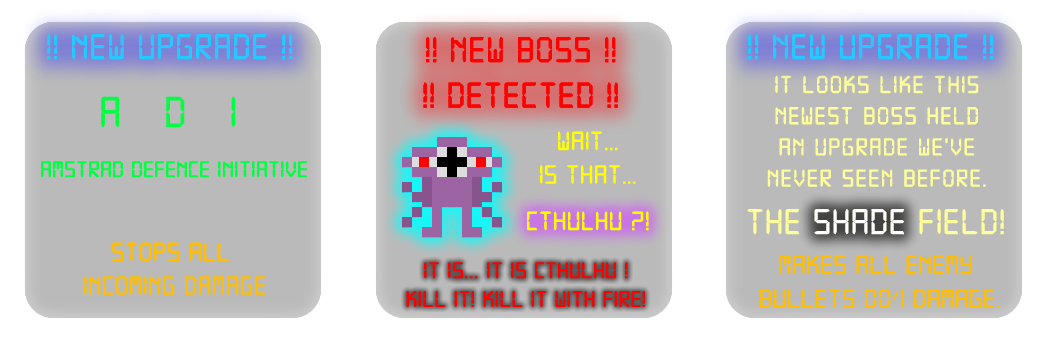
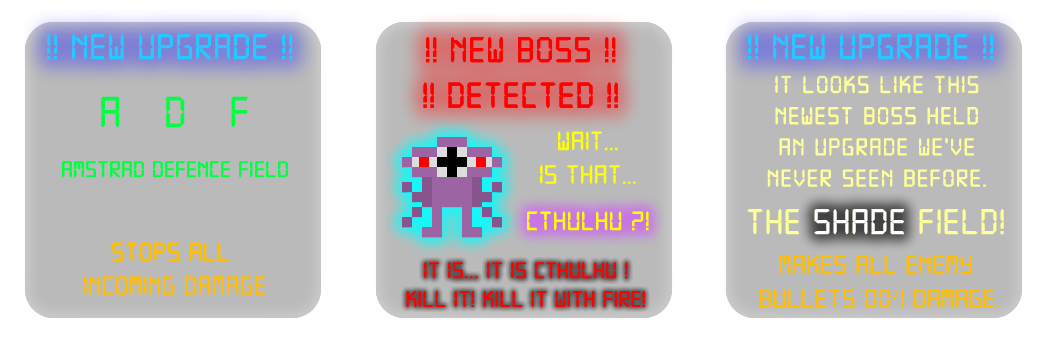
Highlighted Upgrade/Baddy

Changed region(s): [[0.0305, 0.4571, 0.3048, 0.5143], [0.2133, 0.3143, 0.2438, 0.3429], [0.2133, 0.2571, 0.2438, 0.2857]]

diff --git a/js/_vars.js b/js/_vars.js
@@ -189,6 +189,7 @@ var vars = {
         bossLimit: 1,
         bossNext: -1,
         bulletDamage: 1,
+        cthulhuSpotted: false,
         deadSinceLastPowerup: 0,
 
         bossPaths: [], // these are built at run time. All boss paths are set, unlike standard enemy attack paths which start at the enemy xy
@@ -415,11 +416,11 @@ var vars = {
 
         },
 
-        bulletPhysicsObject: function(_xy, _bullet=0, _scale=0.4, _strength=1, _speed=500, _cam2Ignore=true, _xSpeed=0) {
+        bulletPhysicsObject: function(_xy, _bullet=0, _scale=0.4, _strength=1, _speed=500, _cam2Ignore=true, _xSpeed=0, _boss=false) {
             if (_scale===0.4 && vars.game.scale!==0.4) { _scale = vars.game.scale; }
             let theBullet = scene.physics.add.sprite(_xy[0], _xy[1], 'bulletPrimaryEnemy', _bullet).setScale(_scale);
             theBullet.setName('bullet_' + generateRandomID());
-            theBullet.setData('hp', _strength);
+            theBullet.setData({ hp: _strength, boss: _boss });
             scene.sound.play('enemyShoot');
             enemyBullets.add(theBullet);
             if (_cam2Ignore===true) {
@@ -599,6 +600,26 @@ var vars = {
             })
             vars.cameras.ignore(cam2, enemies);
             vars.levels.wavePopupVisible=false;
+        },
+
+        unpauseAfterHighlight: function() {
+            // enable physics
+            scene.physics.resume();
+            // enable tweens
+            allTweens = scene.tweens.getAllTweens();
+            allTweens.forEach( (c)=> {
+                c.timeScale=1;
+            })
+            if (scene.tweens._pending.length>0) { // check for pending tweens (tweens created in the same frame as the paused setting set to true)
+                scene.tweens._pending.forEach( (c)=> {
+                    c.resume();
+                })
+            }
+            // enable game vars
+            let gV = vars.game;
+            gV.paused=false;
+            gV.pausedReason = '';
+            gV.awaitingInput=false;
         }
     },
 
@@ -672,6 +693,7 @@ var vars = {
         },
 
         shieldChange: function(_upgrade=false) {
+            console.log('%c - Check for shield change', vars.console.callTo);
             let pV = vars.player;
             let sV = pV.ship;
             let bW = sV.bodyWidths;
@@ -890,13 +912,17 @@ var vars = {
                     let upG = scene.physics.add.sprite(x,y,'upgradesS').setScale(0.4).anims.play('amstradField');
                     upG.setData('upgrade', 'fx_ADI');
                     shipPowerUpGroup.add(upG);
-                        if (ssV.ADI.seenBefore===false) {
-                            ssV.ADI.seenBefore = true;
-                            // highlight the bonus
-                            vars.UI.highlightObject(upG);
-                            debugger;
-                        }
+                    let paused = false;
+                    console.log('ADDING TWEEN');
+                    if (ssV.ADI.seenBefore===false) {
+                        ssV.ADI.seenBefore = true;
+                        paused = true;
+                        // highlight the bonus
+                        vars.UI.highlightEnabled = true;
+                        vars.UI.highlightObject(upG,0);
+                    }
                     scene.tweens.add({
+                        paused: paused,
                         targets: upG,
                         y: 1000,
                         duration: 2000,
@@ -939,7 +965,7 @@ var vars = {
                         ssV.SHADE.seenBefore = true;
                         paused=true;
                         // highlight the bonus
-                        vars.UI.highlightObject(upG);
+                        vars.UI.highlightObject(upG,2);
                     }
                     scene.tweens.add({
                         paused: paused,
@@ -1067,26 +1093,52 @@ var vars = {
     },
 
     UI: {
-        highlightObject: function(_upgrade) {
-            let w = _upgrade.width;
-            let h = _upgrade.height;
-            let x = _upgrade.x;
-            let y = _upgrade.y;
-            let scale = _upgrade.scale + 0.2;
+        highlightEnabled: false,
+
+        highlightObject: function(_phaserObject, _frame=-1) {
+            let w = _phaserObject.width;
+            let h = _phaserObject.height;
+            let x = _phaserObject.x;
+            let y = _phaserObject.y;
+            let scale = _phaserObject.scale + 0.2;
+            let gameScale = vars.game.scale;
             let gV = vars.game;
             gV.graphics = scene.add.graphics();
             gV.graphics.lineStyle(2, 0xffffff, 1);
 
+            // sanity check
+            if (_frame===-1) {
+                console.error('INVALID FRAME NUMBER when highlighting the object.');
+            }
+
             // the box containing the upgrade
             gV.graphics.strokeRoundedRect(x-(w/2*scale), y-(h/2*scale), w*scale, h*scale, 10);
 
-            // the line coming from the box to the info container
-            scale = vars.game.scale;
-            scene.add.image(x-60,y+35, 'highlightsConnector').setName('highlightConnector');
-            // info container
-            scene.add.image(x+55,y+(180+50*scale),'highlights',1).setScale(vars.game.scale*2).setOrigin(1,0.5).setName('highlighted');
+            if (x<=vars.canvas.cX) { // spawn the highlight to the right of the upgrade
+                // the line coming from the box to the info container
+                scene.add.image(x+60, y+35, 'highlightsConnector', 1).setName('highlightConnector');
+                // info container
+                let clickable = scene.add.image(x-55, y+(180+50*gameScale), 'highlights', _frame).setScale(gameScale*2).setOrigin(0,0.5).setName('highlighted').setInteractive();
+                clickable.on('pointerdown', vars.UI.highlightRemove);
+            } else { // spawn the highlight to the left of the upgrade
+                // the line coming from the box to the info container
+                scene.add.image(x-60, y+35, 'highlightsConnector', 0).setName('highlightConnector');
+                // info container
+                let clickable = scene.add.image(x+55, y+(180+50*gameScale), 'highlights', _frame).setScale(gameScale*2).setOrigin(1,0.5).setName('highlighted').setInteractive();
+                clickable.on('pointerdown', vars.UI.highlightRemove);
+            }
 
             vars.game.pauseForHighlightedObject(); // pause all the things (except stars, coz that would be weird)
+        },
+
+        highlightRemove: function() {
+            console.error('Continue from here...');
+            let gV = vars.game;
+            gV.graphics.clear();
+            scene.children.getByName('highlighted').destroy();
+            scene.children.getByName('highlightConnector').destroy();
+            // unpause all the things
+            vars.game.unpauseAfterHighlight();
         }
     },
 

diff --git a/js/player.js b/js/player.js
@@ -106,45 +106,70 @@ function healthBulletUpgradeSpawn(_spawnXY,_fU='') {
 }
 
 function playerHit(_player, _bullet) {
+    let pV = vars.player;
+    let cV = pV.ship.cannonSlots;
+    let ssV = vars.player.ship.special;
+
     let _bulletStrength;
+    let _boss = false;
     if (_bullet!==0) {
         _bulletStrength = _bullet.getData('hp');
+        _boss = _bullet.getData('boss');
         _bullet.destroy();
     } else {
         _bulletStrength = 0;
     }
-    let pV = vars.player;
-    let cV = pV.ship.cannonSlots;
 
-    if (pV.hitpoints-(_bulletStrength*3)>_bulletStrength*3) {
-        pV.hitpoints=~~(pV.hitpoints - _bulletStrength*3);
-        vars.cameras.flash('red', 500);
-        scene.sound.play('playerHit');
-        //console.log('HP: ' + pV.hitpoints + ', bulletStrength: ' + _bulletStrength);
-        // first, we reset the upgrades if the player has less than 100 hp
-        if (pV.hitpoints<=115 && pV.hitpoints>=100 && pV.ship.upgrades!==1) {
-            console.log('Dropping upgrades to 1');
-            pV.ship.upgrades=1;
-            cV.l2r2.enabled=false;
-        } else if (pV.hitpoints > 0 && pV.hitpoints<100 && pV.ship.upgrades!==0) {
-            console.log('Dropping upgrades to 0');
-            pV.ship.upgrades=0;
-            cV.l1r1.enabled=false;
-            cV.l2r2.enabled=false;
-        }
-
-        // now we set the shield colour
-        console.log('Setting the shield colour');
-        vars.player.shieldChange(false);
-
-    } else { // player is dead
-        console.log('%cPLAYER IS DEAD', 'background-color: red; color: black');
-        vars.cameras.shake(cam1, 750);
-        /* vars.game.pause(); */
-        vars.game.started=false; // this tells us that we have died, now using the variable pV.isDead
-        vars.player.dead();
-        enemiesLand();
+    if (_boss!==false && _boss!==true) {
+        console.error('BOSS VAR ISNT TRUE OR FALSE!');
     }
+
+    // SET UP THE BULLET DAMAGE MULTIPLIER
+    let mult = 1;
+    if (_boss===true) { // boss bullet?
+        mult += 0.2;
+    }
+    if (vars.levels.wave>=7) { // wave 7 or above, bullets increase in damage
+        mult += 0.1 + ((vars.levels.wave-7)*0.05); // I cant be bothered to make sure that js will always use PE/BOMDAS so Im using brackets
+    } // wave is < 7 (we dont add any extra damage)
+    
+    if (ssV.SHADE.collected===true) { // first, check if the SHADE effect is running. if it is the bullet damage and mul are set to 1
+        console.log('SHADE field active. Reducing damage and multiplier to 1.');
+        mult=1;
+        _bulletStrength=1;
+    }
+
+    if (ssV.ADI.collected===false) { // if the ADI field ISNT active the player WILL take damage
+        if (pV.hitpoints-(_bulletStrength*mult)>0) {
+            pV.hitpoints=~~(pV.hitpoints - _bulletStrength*mult);
+            vars.cameras.flash('red', 1000);
+            scene.sound.play('playerHit');
+            //console.log('HP: ' + pV.hitpoints + ', bulletStrength: ' + _bulletStrength);
+            // first, we reset the upgrades if the player has between 0 and 115 hp
+            if (pV.hitpoints<=115 && pV.hitpoints>=100 && pV.ship.upgrades!==1) {
+                console.log('%cPLAYER >> Dropping upgrades to 1', vars.console.doing);
+                pV.ship.upgrades=1;
+                cV.l2r2.enabled=false;
+            } else if (pV.hitpoints > 0 && pV.hitpoints<100 && pV.ship.upgrades!==0) {
+                console.log('%cPLAYER >> Dropping upgrades to 0', vars.console.doing);
+                pV.ship.upgrades=0;
+                cV.l1r1.enabled=false;
+                cV.l2r2.enabled=false;
+            }
+
+            // now we set the shield colour
+            console.log('%cPLAYER >> Setting the shield colour', vars.console.callFrom);
+            vars.player.shieldChange(false);
+
+        } else { // player is dead
+            console.log('%cPLAYER IS DEAD', 'background-color: red; color: black');
+            vars.cameras.shake(cam1, 750);
+            /* vars.game.pause(); */
+            vars.game.started=false; // this tells us that we have died, now using the variable pV.isDead
+            vars.player.dead();
+            enemiesLand();
+        }
+    } // else the ADI field is in effect, player takes no damage.
 }
 
 function shipPowerUpPickUp(_upgrade) {

diff --git a/js/enemy.js b/js/enemy.js
@@ -399,6 +399,11 @@ function enemyBossHit(_bullet, _boss) {
 function enemyBossShow(_tween, _target, _boss) {
     shaderType('default',1);
     _boss.setVisible(true);
+    if (vars.enemies.cthulhuSpotted===false) { // is this the first time cthulhu was spotted ?
+        vars.enemies.cthulhuSpotted = true;
+        // highlight the boss
+        vars.UI.highlightObject(_boss, 1);
+    }
 }
 
 function enemyBossUpdate(_boss) {
@@ -438,7 +443,8 @@ function enemyBossUpdate(_boss) {
                     //console.log('Firing Bullet');
                     let bulletSprite = Phaser.Math.RND.between(0,vars.enemies.spriteCount-1); // basically the colour of the bullet
                     let bulletSpeed = Phaser.Math.Clamp((vars.levels.wave-1)*10 + 600, 600, 800); // boss bullet speed is based on the wave (between 600 and 800)
-                    vars.enemies.bulletPhysicsObject([_boss.x, _boss.y], bulletSprite, bulletScale, damage, bulletSpeed, false, xSpeed);
+                    let boss=true;
+                    vars.enemies.bulletPhysicsObject([_boss.x, _boss.y], bulletSprite, bulletScale, damage, bulletSpeed, false, xSpeed, boss);
                 }
                 _boss.data.list.firerate.bulletcount--;
 
